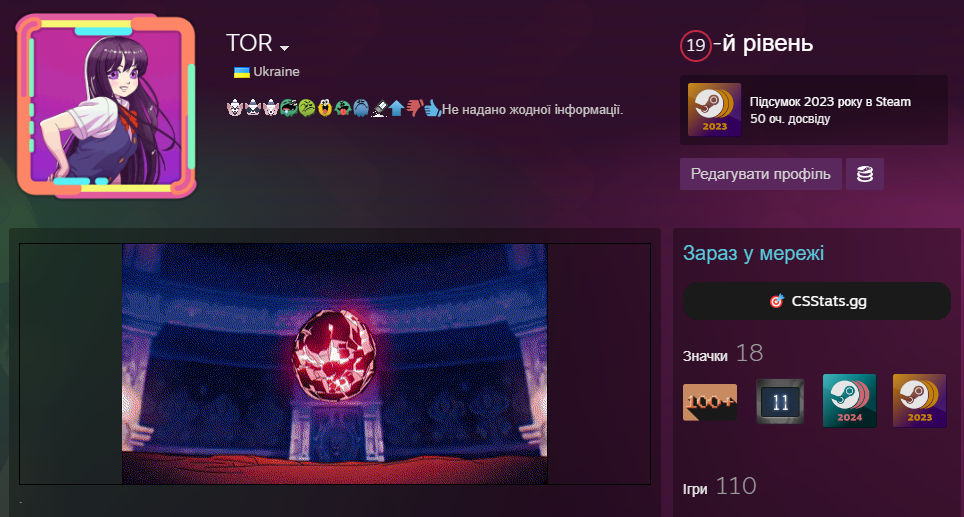
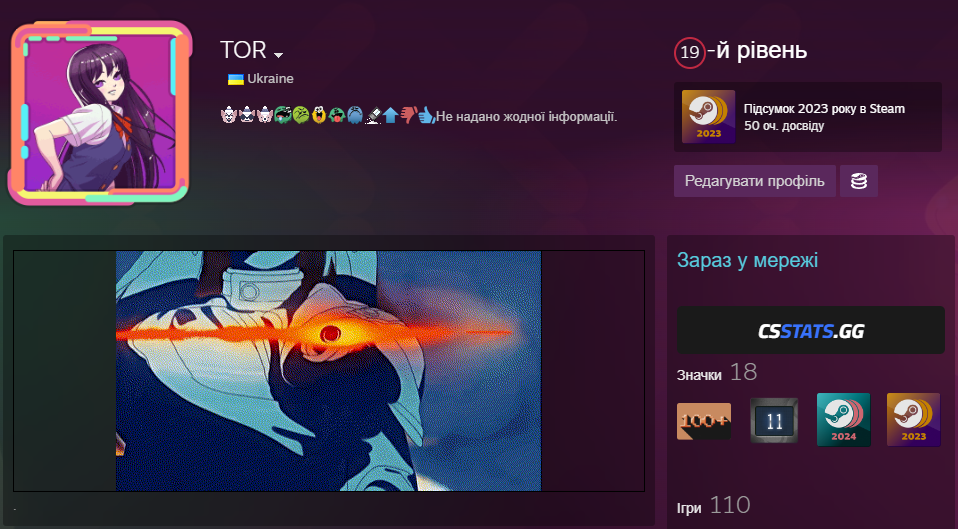
style(webkit): improve button style and font usage

diff --git a/webkit/index.tsx b/webkit/index.tsx
@@ -21,26 +21,43 @@ export default async function WebkitMain() {
 		console.log('CSStats.gg webkit module loaded successfully.');
 
 		const styles = `
+        @import url('https://fonts.googleapis.com/css2?family=Cairo:slnt,wght@11,800&display=swap');
+
         .csstats-btn {
-            background-color: #1a1a1a;
-            border-radius: 5px;
-            padding: 8px 12px;
-            cursor: pointer;
-            transition: background-color 0.2s ease;
-            color: #ffffff;
-            font-family: 'Motiva Sans', sans-serif;
-            font-size: 15px;
             display: flex;
+            width: 100%;
+            height: 3rem;
             align-items: center;
             justify-content: center;
-            gap: 8px;
+            font-size: 20px;
+            color: #FFF;
+            font-weight: 800;
+            font-family: 'Cairo', sans-serif;
+            font-variation-settings: "slnt" -11;
+            transition: all 0.5s cubic-bezier(.23, 1, .32, 1);
+            text-transform: uppercase;
+            background-color: #1a1a1a;
+            border-radius: 5px;
+            cursor: pointer;
+            text-decoration: none;
+            border: none;
+            outline: none;
         }
 
         .csstats-btn:hover {
             background-color: #2d3748;
-            border-color: #4a5568;
+            text-decoration: none !important;
         }
-    `;
+
+        .csstats-btn:hover .stats {
+            color: #EB4B4B;
+        }
+
+        .csstats-btn .stats {
+            transition: all 0.5s cubic-bezier(.23, 1, .32, 1);
+            color: #3872FC;
+            display: inline-block;
+        }`;
 
 		const styleSheet = document.createElement('style');
 		styleSheet.innerText = styles;
@@ -77,7 +94,7 @@ export default async function WebkitMain() {
 
 			const button = document.createElement('div');
 			button.className = 'csstats-btn';
-			button.innerHTML = '🎯 CSStats.gg';
+			button.innerHTML = 'CS<span class="stats">stats</span>.gg';
 			button.onclick = () => {
 				window.open(`https://csstats.gg/player/${steamID64}`, '_self', 'noopener,noreferrer');
 			};
